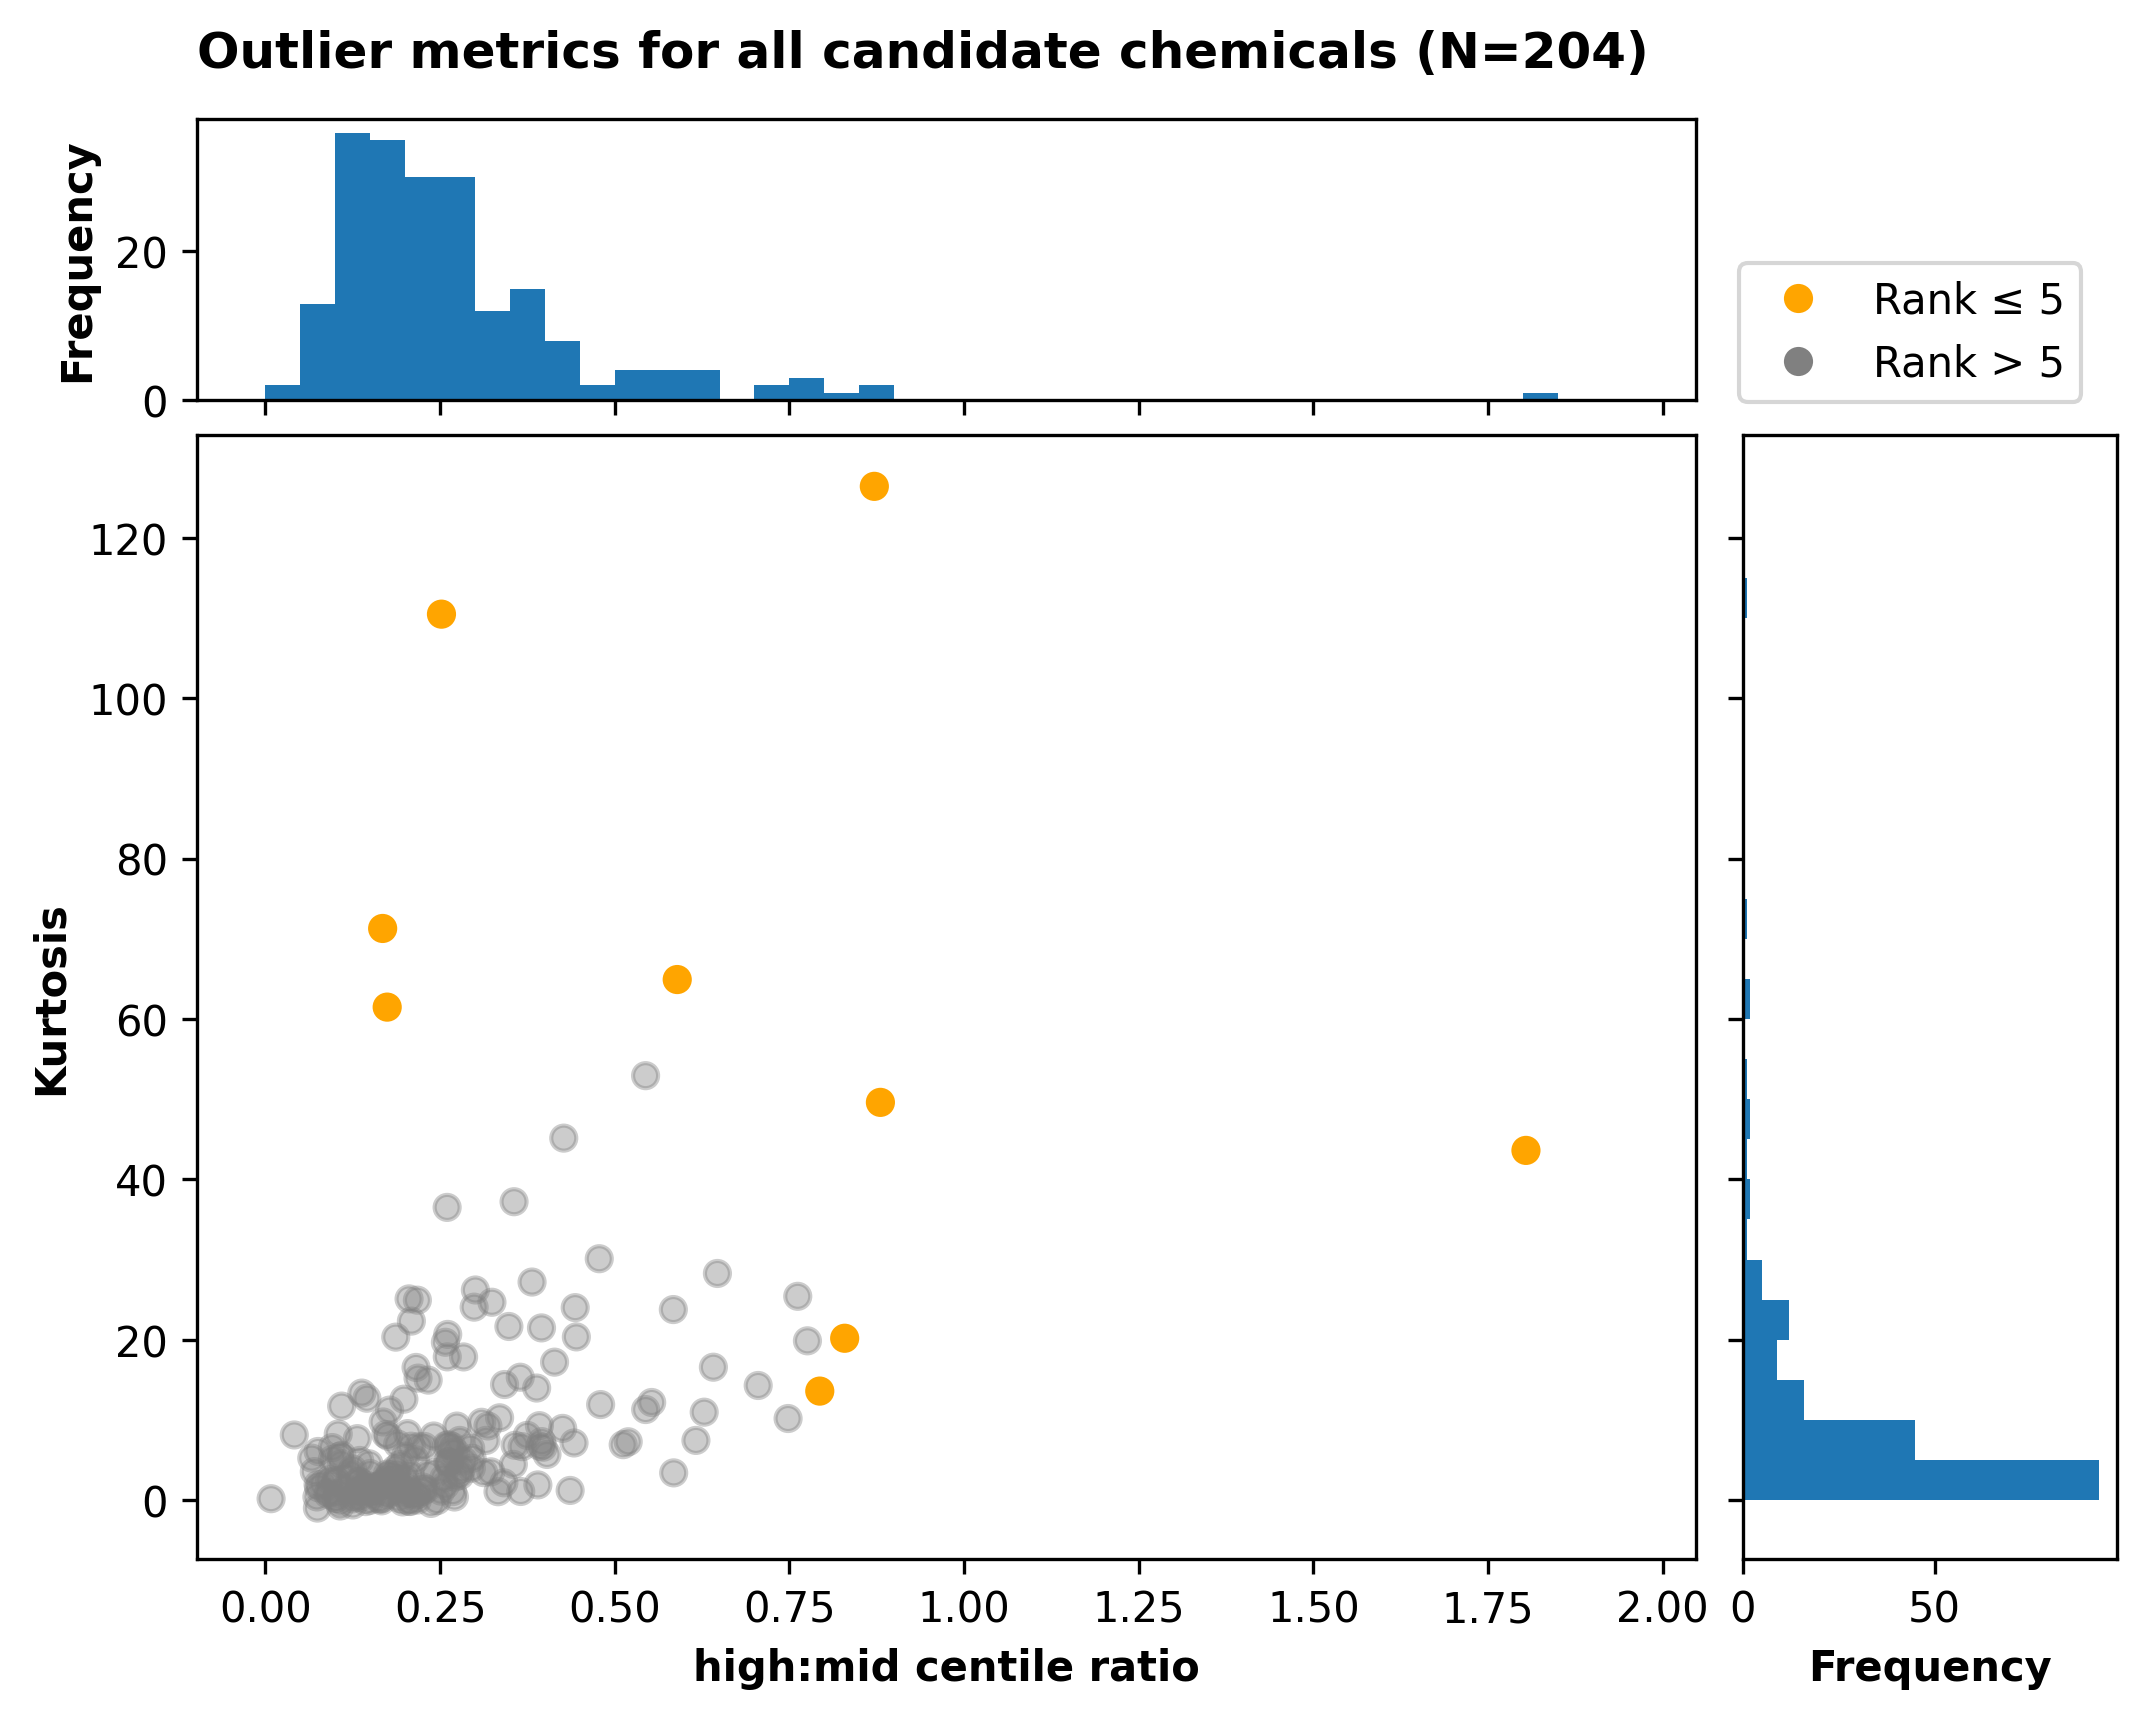
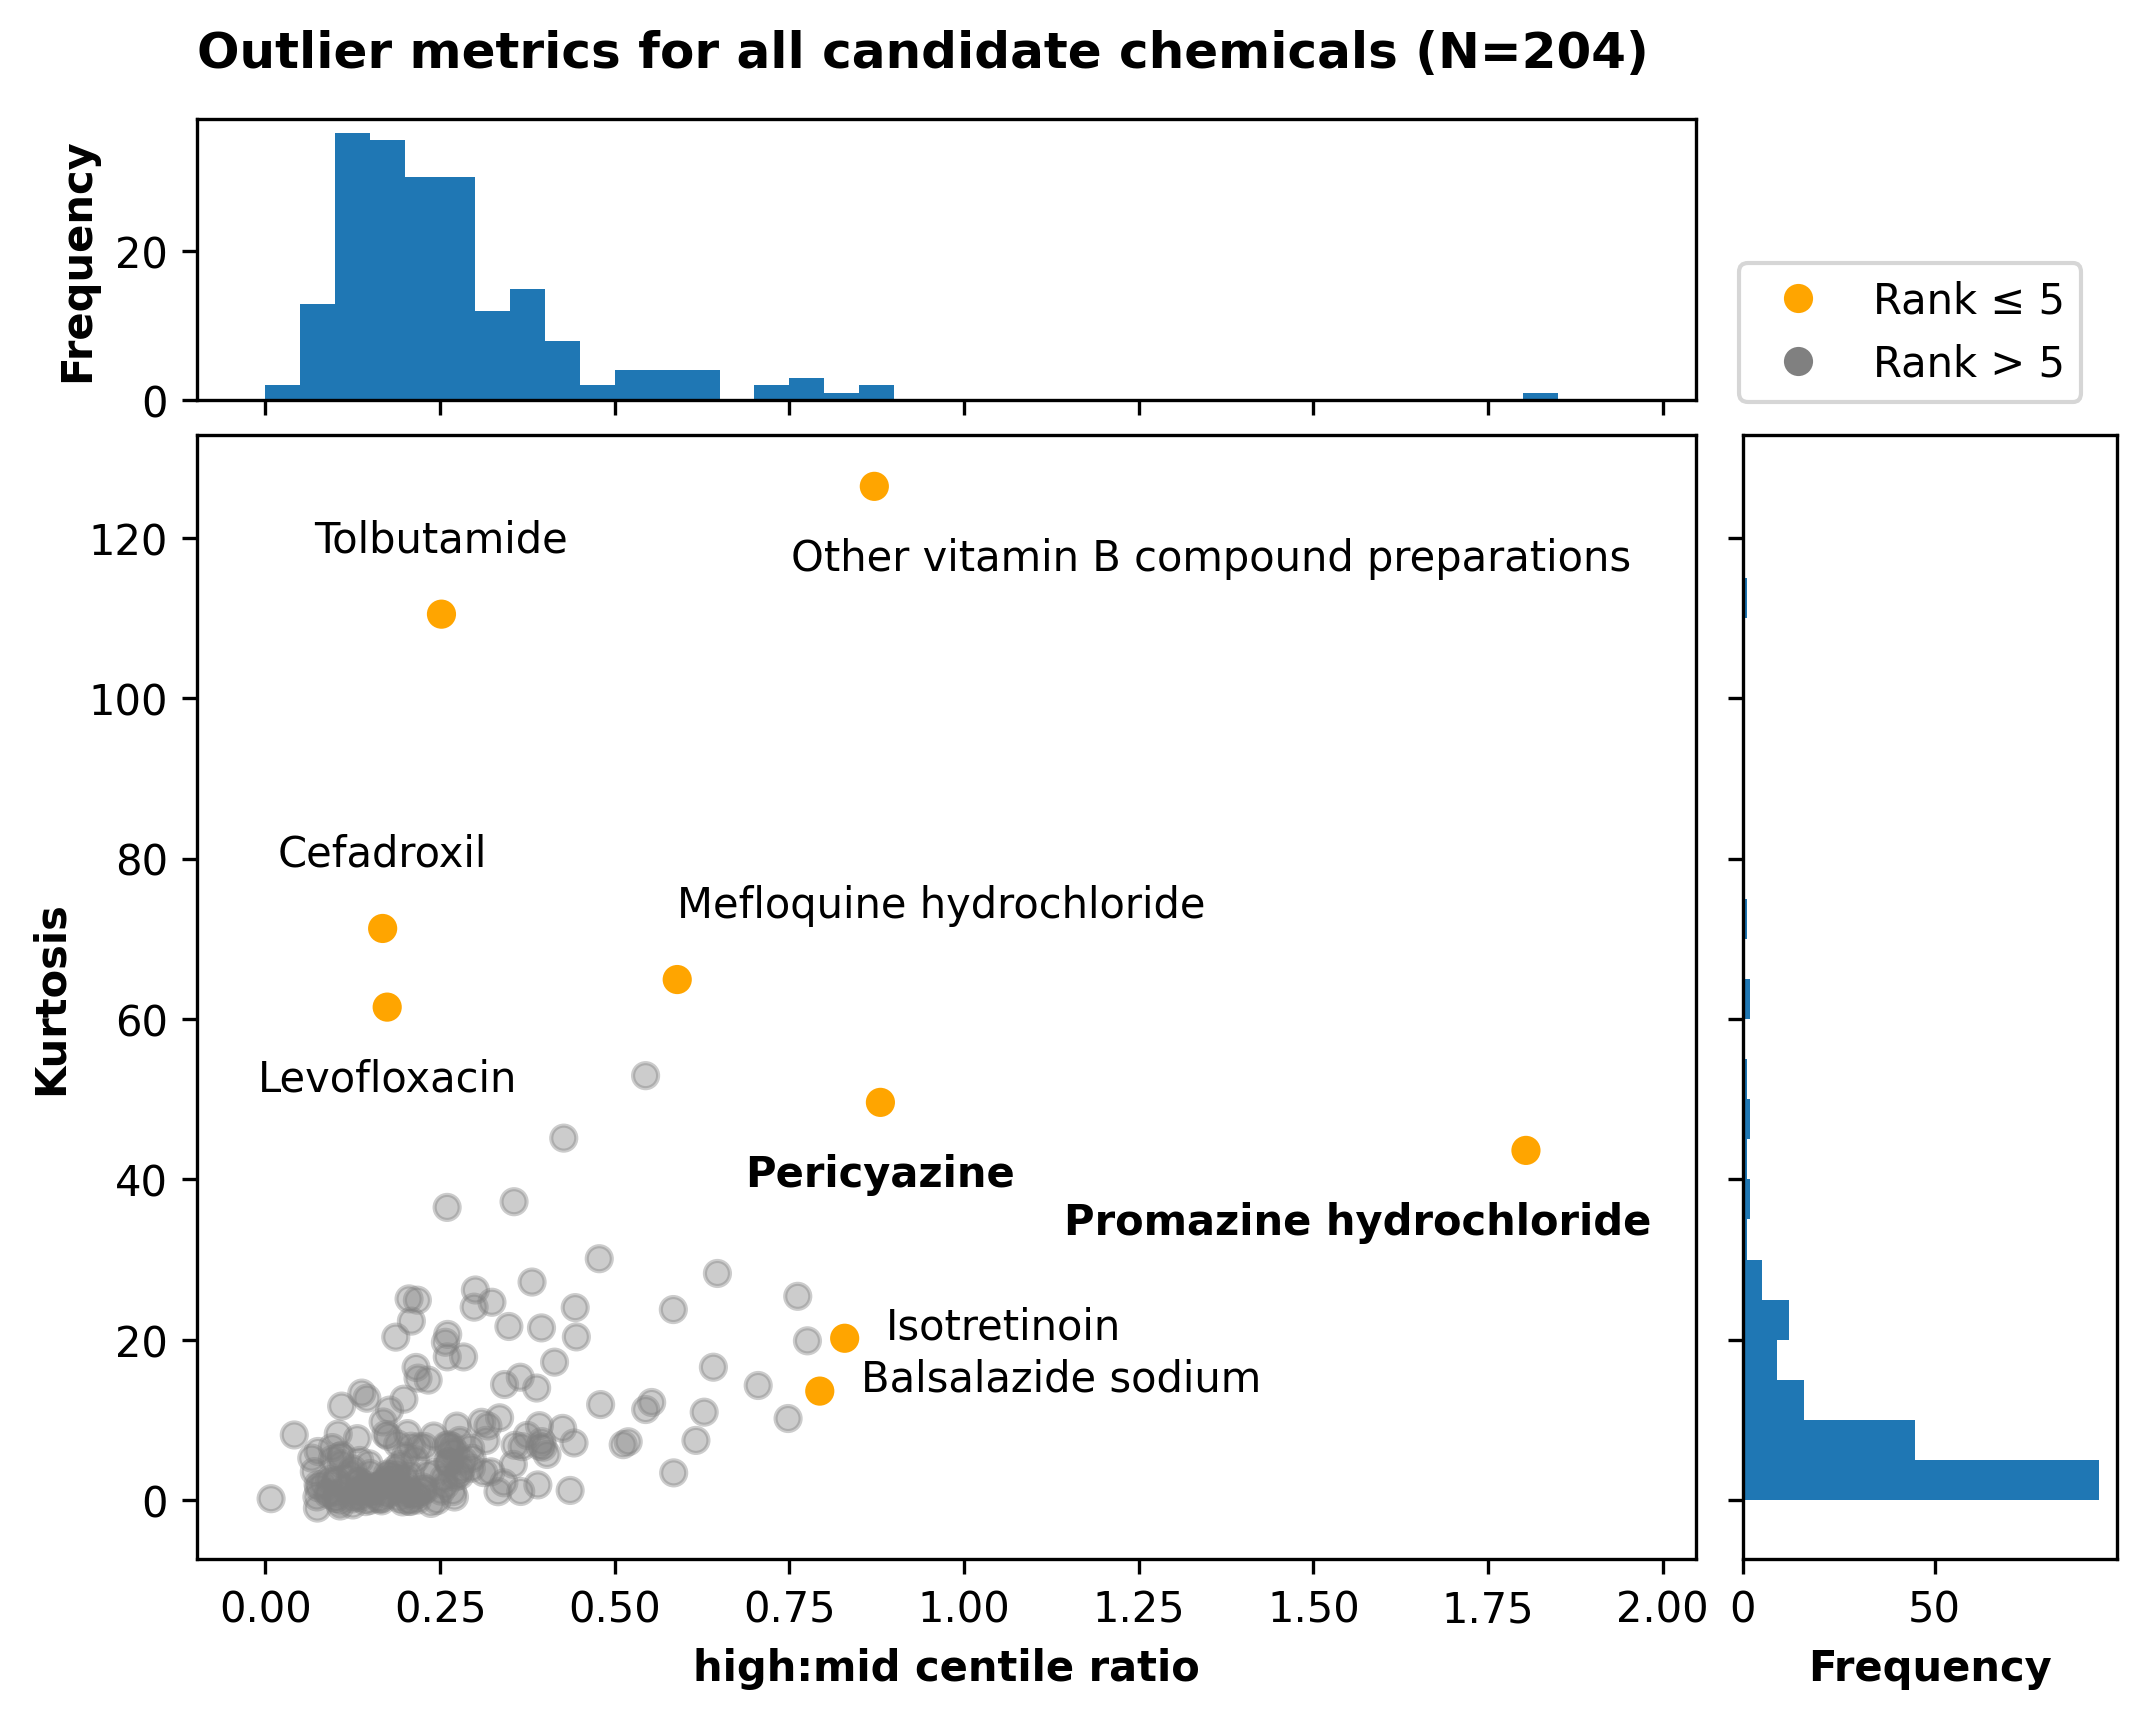
feat: updated plots further to amendments prompted by final review

diff --git a/notebooks/diffable_python/outlier-analysis_target-identification.py b/notebooks/diffable_python/outlier-analysis_target-identification.py
@@ -420,7 +420,7 @@ scatter_hist(x, y,
 
 # specify the location of chemical names manually so that labels don't clash
 for k, v in data_to_plot.iterrows():
-    if v.group == f"Rank <= {n_to_label}":
+    if v.group == f"Rank ≤ {n_to_label}":
         if ( k in ['Tolbutamide', 'Cefadroxil'] ):
             ax.annotate(k, (v['ratio'], v['kurtosis']), textcoords="offset points", xytext=(0,15), ha='center' )
         elif ( k in ['Mefloquine hydrochloride'] ):
